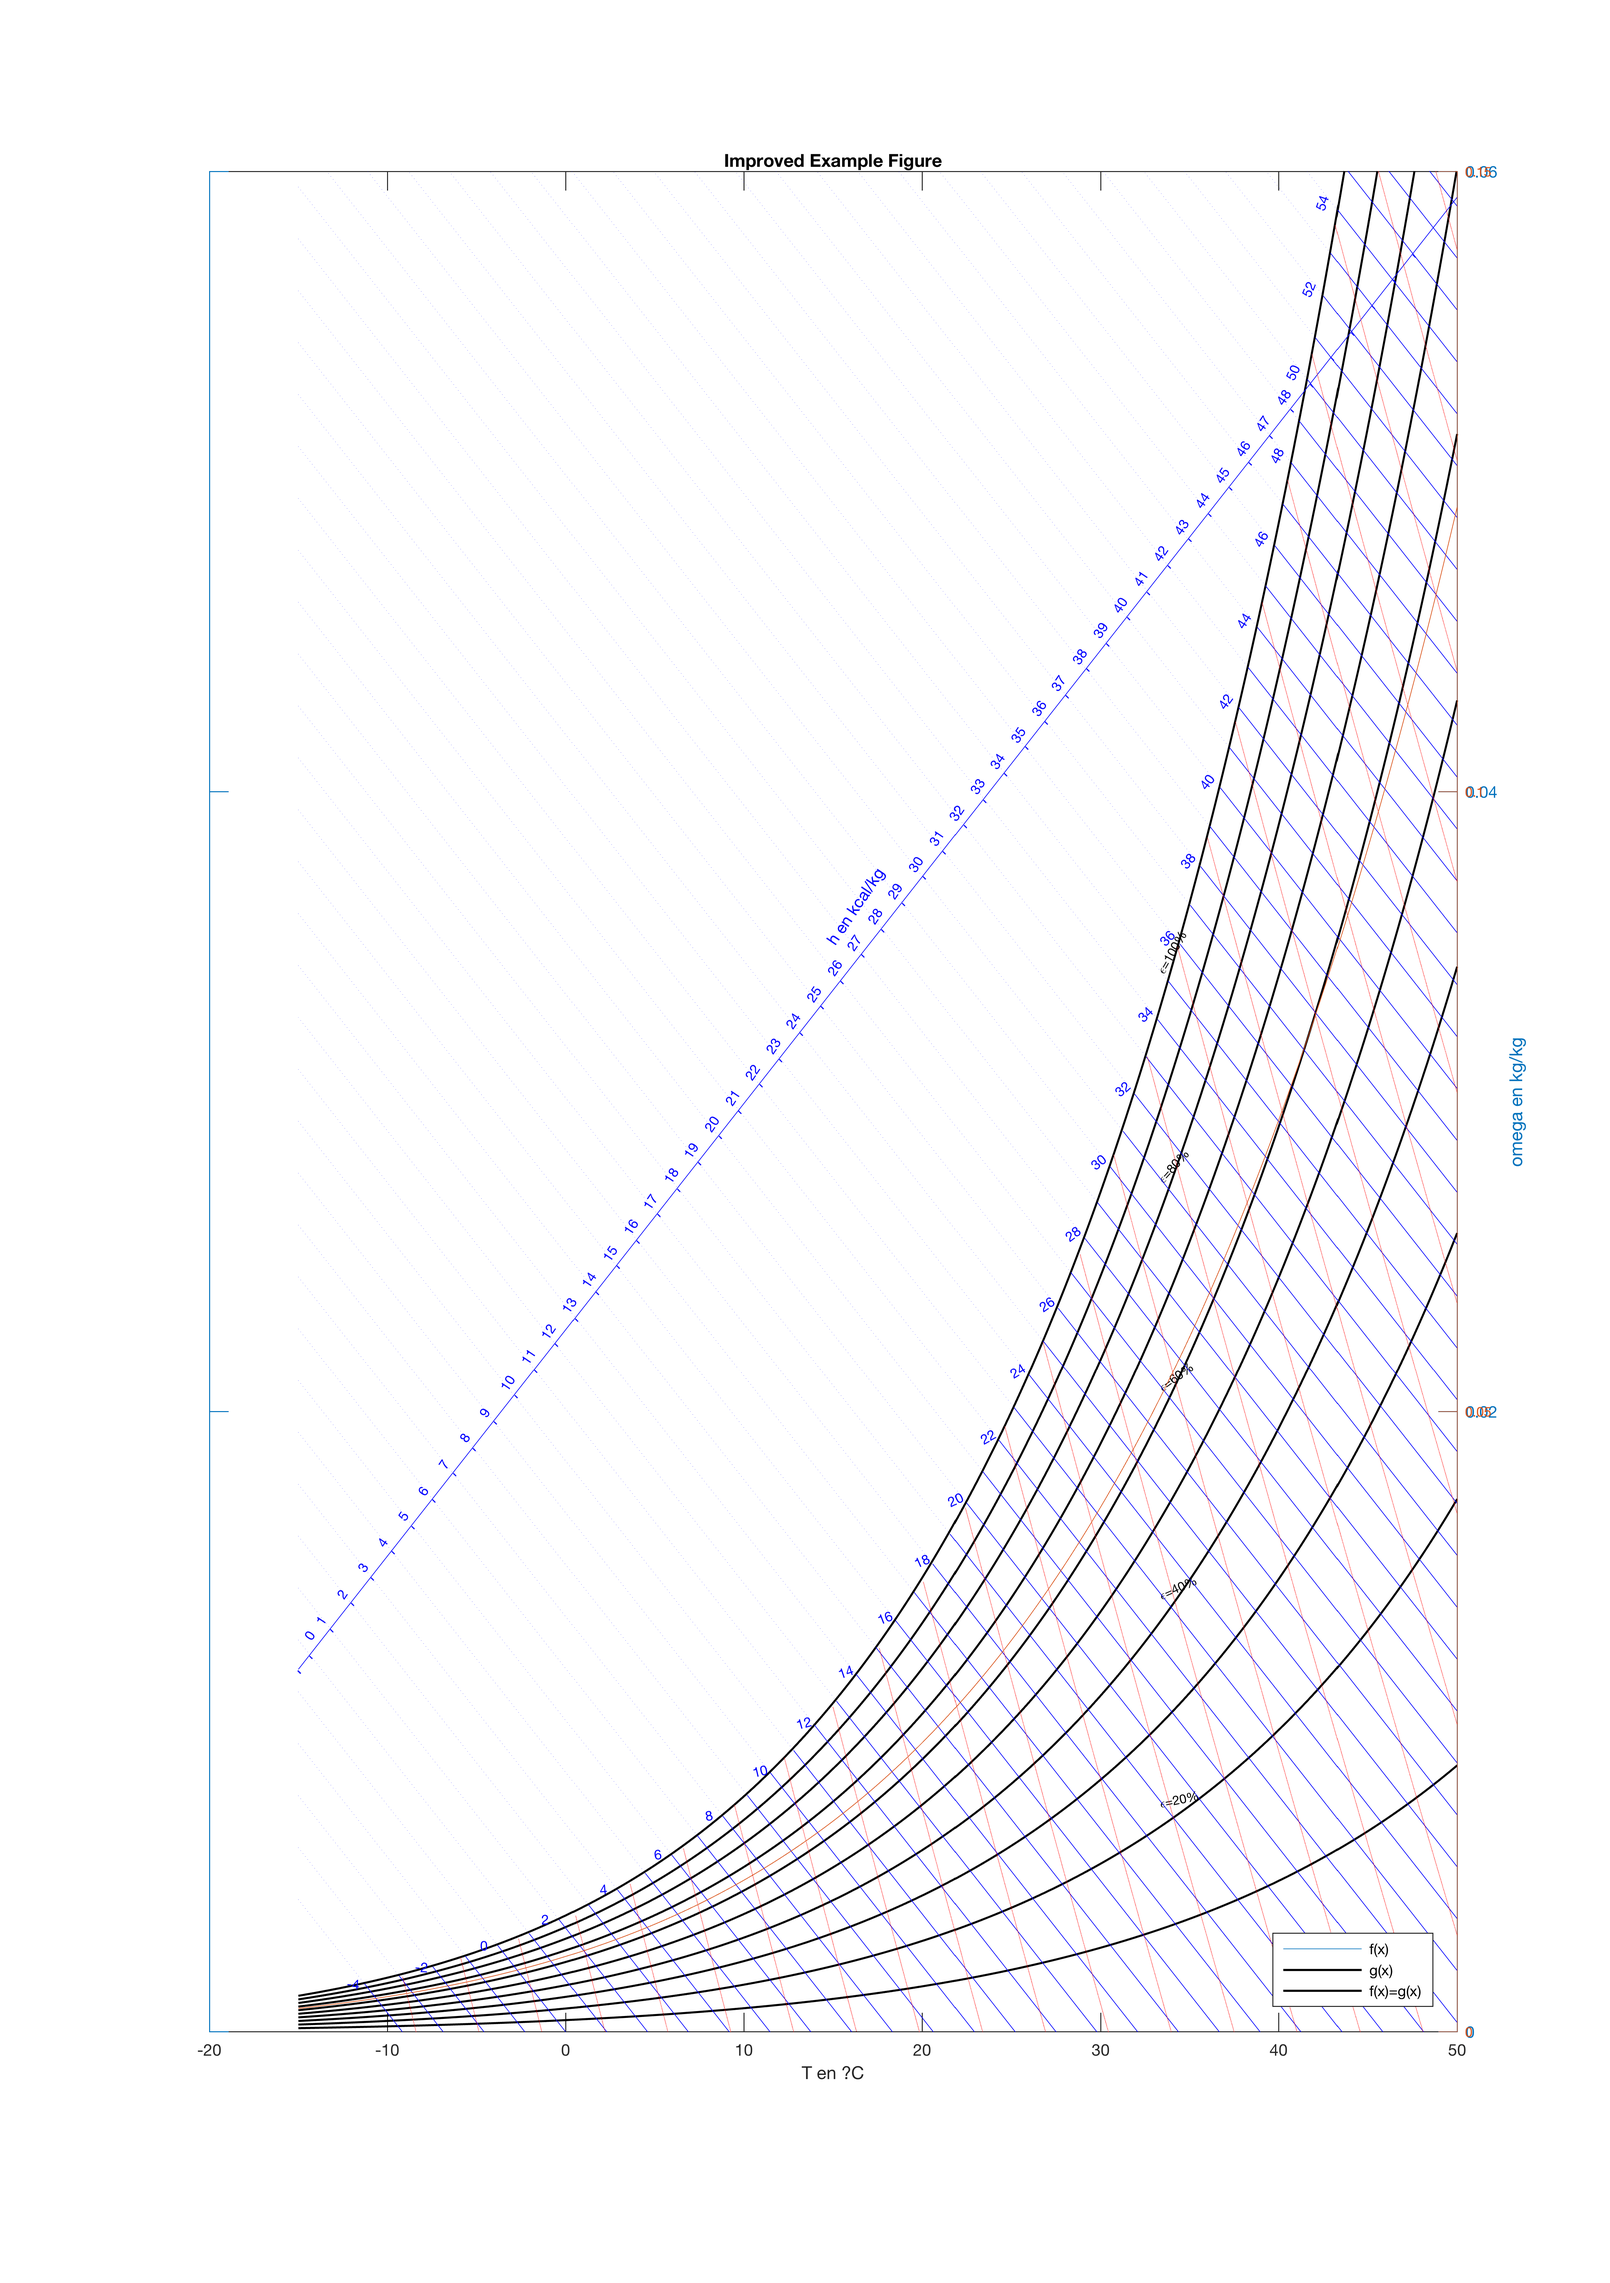
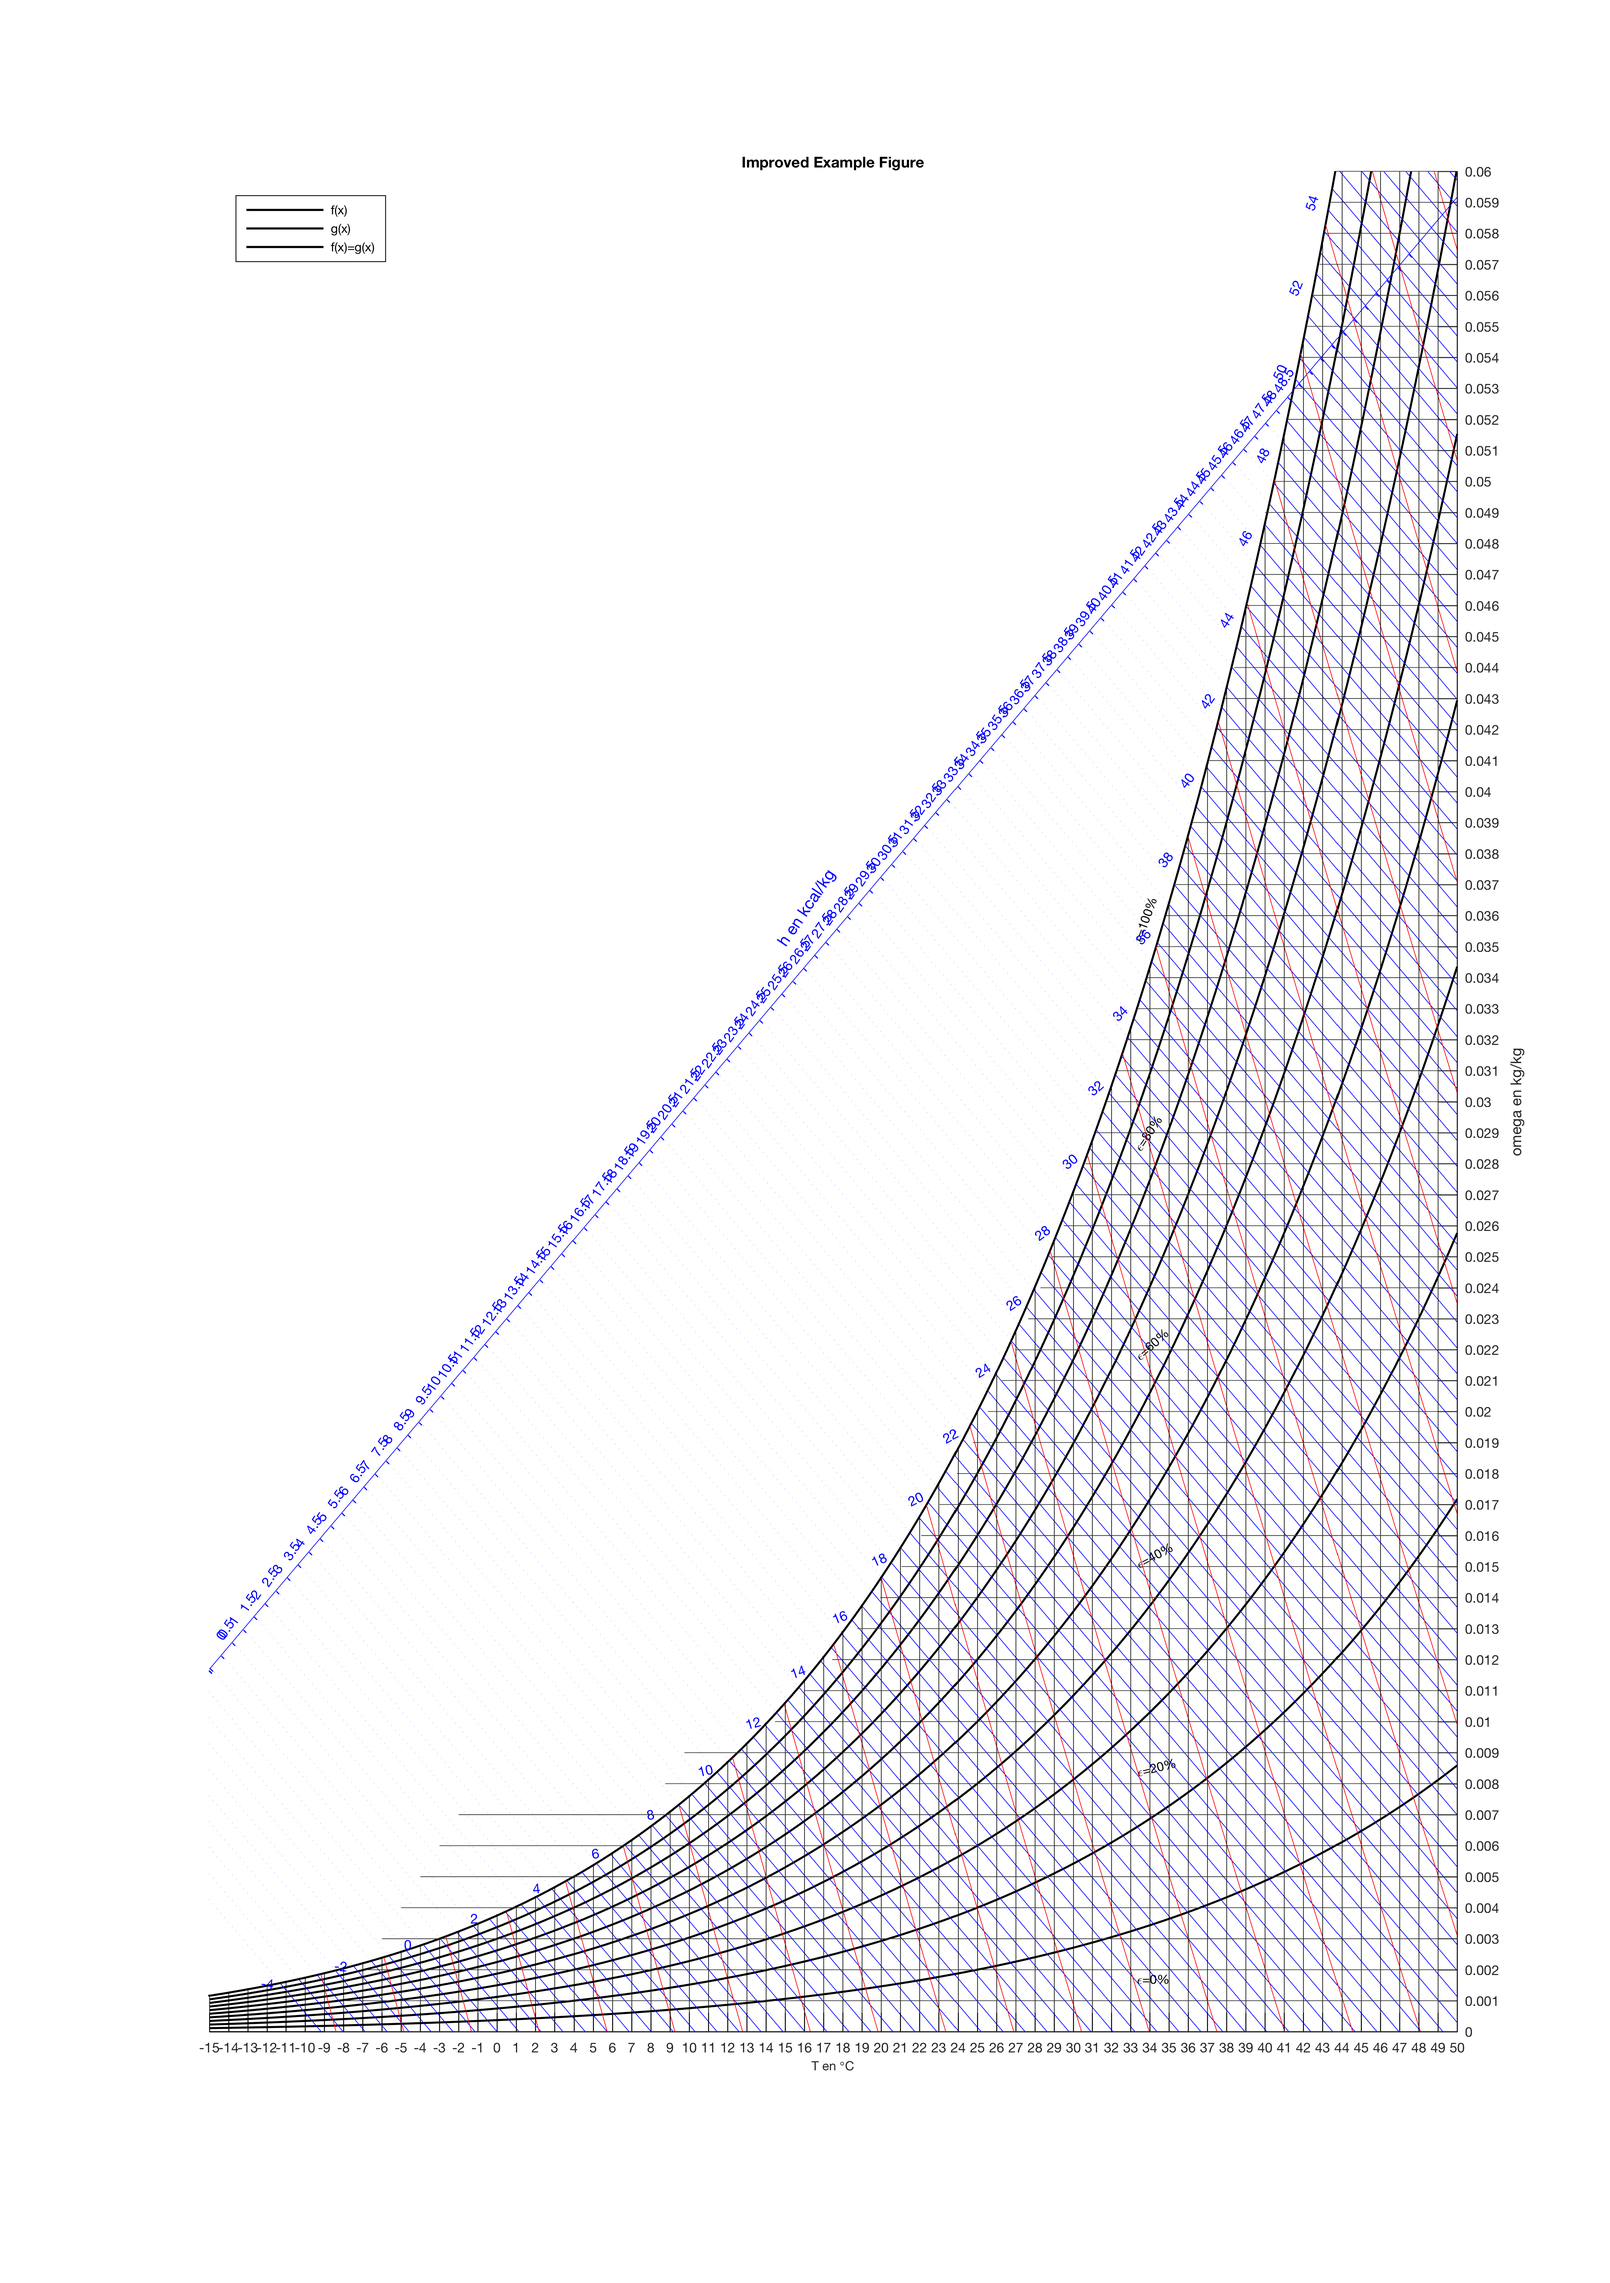
Programme réalisé séance 4

diff --git a/main_fonctionnel.m b/main_fonctionnel.m
@@ -9,8 +9,8 @@ close all
 Ptot=101325; %Pa
 
 % Cp constants
-Cpair_humide=1040; % J/kg/K
-R=8.314; % J/mol/K
+Cpair_humide=1040; %J/kg/K
+R=8.314; %J/mol/K
 Mas= 28.965338*10^-3 ; %kg/mol
 Mv= 18.01528*10^-3 ; 
 
@@ -18,15 +18,7 @@ Mv= 18.01528*10^-3 ;
 Tmin=-15;
 Tmax=50;
 
-T=[Tmin:0.01:Tmax];
-
-
-
-%Nb de courbes iso
-
-
-nb_iso=20; %nombre de courbes iso par fenetre
-
+T=[Tmin:0.01:Tmax]; %T augmente de 1 degre par pas de 100
 
 %% Trace de omega en fct de T
 
@@ -40,51 +32,41 @@ omega_max=0.622*(Pvs_max./(Ptot-Pvs_max)); %cours de Mr. Boichot
 vs_min= ((Mv/Mas)) * (R*(Tmin+273.15)/(Ptot*Mv));  
 vs_max=((Mv/Mas)+omega_max) * (R*(Tmax+273.15)/(Ptot*Mv)); 
 
-h_min=0; % mettre les formules en fonction de T
-h_max=300;
-
-
-
 %% Tracer du diagramme psychrometrique
 
 figure(1)
+hold 
 
-%% En HD 
+%% Parametres de l'image 
 width = 16.5;     % Width in inches
 height = 23.4;    % Height in inches
 alw = 0.75;    % AxesLineWidth
-fsz = 11;      % Fontsize
+fsz = 10;      % Fontsize
 lw = 1.5;      % LineWidth
 msz = 8;       % MarkerSize
 
 %%%%%%%%%%%%%%%%%%%%%%%% Mise en forme  %%%%%%%%%%%%%%%%%%%%%%%%%%%%%%%%%%
-
-
-% 'stem' trace les traits verticaux sous la courbe de saturation
-
-
-hold 
-
 pos = get(gcf, 'Position');
+
+abscisses=T(1:100:end);
+ordonnees=[0:0.001:0.06];
+
 set(gcf, 'Position', [pos(1) pos(2) width*100, height*100]); % choix de la taille de l'image
-set(gca, 'FontSize', fsz, 'LineWidth', alw,'Box','off'); %,'XTick',T(1:(1000/65):end-2)); %<- Set properties, choix notamment des graduations abscisses
+set(gca, 'FontSize', fsz, 'LineWidth', alw,'Box','off','XTick',abscisses,...
+    'YTick',ordonnees); %<- Choix propertees, choix notamment des graduations abscisses/ordonnees
 
 title('Abaque psychrometrique simplifie')
-
-xlabel('T en ?C')
+xlim([Tmin Tmax])
+ylim([0 0.06])
+xlabel('T en {\circ}C')
 ylabel('omega en kg/kg')
 
-xlim([Tmin Tmax])
-ylim([0 0.05])
+
 
 % Gestion des axes
 axes=gca;
 axes.YAxisLocation='right'
-axes.FontSize=12;
-%axes.FontWeight='bold';
-
-
-%Echelles secondaires
+axes.FontSize=10;
 
 Pvs=pression_vapPa(T);
 omega=0.622.*(Pvs./(Ptot-Pvs));
@@ -92,7 +74,6 @@ omega=0.622.*(Pvs./(Ptot-Pvs));
 pressions_partiellesPa=pressionpartielle_fomega(omega,Ptot);
 pressions_partielleskgcm2=pressions_partiellesPa.*1E-5;
 
-plotyy(T,omega,T,pressions_partielleskgcm2,'plot');
 
 %% Trac?? de la courbe de saturation
 
@@ -109,7 +90,7 @@ Pvs_legende=pression_vapPa(Tlegende);
 courbe_sat_legende=0.622.*(Pvs_legende./(Ptot-Pvs_legende));
 
 pas=0.2;
-for i=pas:pas:1
+for i=0:pas:1
     plot(T, i*courbe_sat, '-k')
     n=i*100;
     str=['\epsilon=' num2str(n) '%'];
@@ -122,7 +103,7 @@ end
 %'Extent',[xt-1 yt-0.0015 3 0.003] pour tracer un carr?? blanc autour du
 %texte mais ca marche pas
 
-legend('f(x)', 'g(x)', 'f(x)=g(x)', 'Location', 'SouthEast');
+legend('f(x)', 'g(x)', 'f(x)=g(x)', 'Location', 'NorthWest');
 
 
 title('Improved Example Figure');
@@ -147,20 +128,13 @@ for h=-4:0.5:60 %nombre de droites, intervalle d'enthalpies
     end
     
     h=h/4.184;
-    markerstep=20; %pour espacer les points des droites au dessus de la courbe de saturation
-    
-    if mod(h,1)==0
-        
-        plot(T(k:end), iso_h(k:end), '-b') 
-    else 
-        plot(T(k:end), iso_h(k:end), '-b')
-    end
-    
+    plot(T(k:end), iso_h(k:end), '-b') 
+
     
     %gestion de la legende 
     %on met la legende au point d'intersection entre courbes Pvsat et isenthapiques
     if h<=55 
-        if mod(h,2)==0%seulement 1/2
+        if mod(h,2)==0 %seulement 1/2
 
 
             str={h};
@@ -172,6 +146,11 @@ for h=-4:0.5:60 %nombre de droites, intervalle d'enthalpies
         while iso_h(k)>=Ech_h(k)
             k=k+1;
         end
+        
+        %on prolonge les courbes en pointilles jusqu'a l'echelle
+        markerstep=20; %pour espacer les points des droites au dessus de la courbe de saturation
+        plot(T(k:markerstep:end), iso_h(k:markerstep:end),'.b','MarkerSize',0.1)  
+        
         text(T(k),Ech_h(k),'-','FontSize',10,'Color','blue','rotation',-45)
         if h>=0 && h<49
             str={h};
@@ -195,13 +174,30 @@ for vs=0.75:0.01:1
          
     end
     %plot(T(1:k),omega_vs(1:k),':y') pas forcement necessaire de les prolonger
-    plot(T(k:end),omega_vs(k:end),':red') 
+    plot(T(k:end),omega_vs(k:end),'-r') 
     
 end
 
 FigHandle = figure(1);
-set(FigHandle, 'Position', [100, 100, 720, 800]); %apercu de l'image finale au bon format sur Matlab 
+set(FigHandle, 'Position', [100, 100, 1000, 1200]); %apercu de l'image finale au bon format sur Matlab 
 
+%% Grid 
+
+%on trace la grille selon les abcisses (des temperatures) sous la courbe de sat
+stem(T(1:100:end), courbe_sat(1:100:end), 'k','LineWidth',lw/3, 'Marker', '.') 
+%et la grille selon les ordonnes 
+L_ordo=length(ordonnees);  
+
+
+for i=1:L_ordo
+    omeg=ordonnees(i);
+    fun = @(x) 0.622.*(pression_vapPa(x)./(Ptot-pression_vapPa(x)))-omeg;
+    T_vapsat(i) = fsolve(fun, i-10);
+    plot([T_vapsat(i), Tmax],[ordonnees(i) ordonnees(i)],'color',[0.2 0.2 0.2]);
+end
+
+
+%% Logo Phelma 
 
 % % A enlever du mode commentaire pour sauvergarder l'image
 % %Here we preserve the size of the image when we save it.

diff --git a/test.m b/test.m
@@ -1,0 +1,29 @@
+clc
+clear all 
+close all 
+
+hold all
+X=[0:1:10];
+% create the plot/graph
+plot(X,10*X);
+% GET handle to current axes and move the plot axes to the bottom
+% 
+% ha =gca;
+% uistack(ha,'bottom');
+% % Creating a new axes for the logo on the current axes
+% % To create the logo at the bottom left corner of the plot use 
+% % the next two lines
+% haPos = get(ha,'position');
+% ha2=axes('position',[haPos(1:2), .1,.04,]);
+% % To place the logo at the bottom left corner of the figure window
+% % uncomment the line below and comment the above two lines
+% % ha2=axes('position',[0, 0, .1,.04,]);
+% % Adding a LOGO to the new axes
+% 
+
+% image(x)
+% % Setting the colormap to the colormap of the imported logo image
+% colormap (map)
+% % Turn the handlevisibility off so that we don't inadvertently plot
+% % into the axes again. Also, make the axes invisible
+% set(ha2,'handlevisibility','off','visible','off')  ], x);
